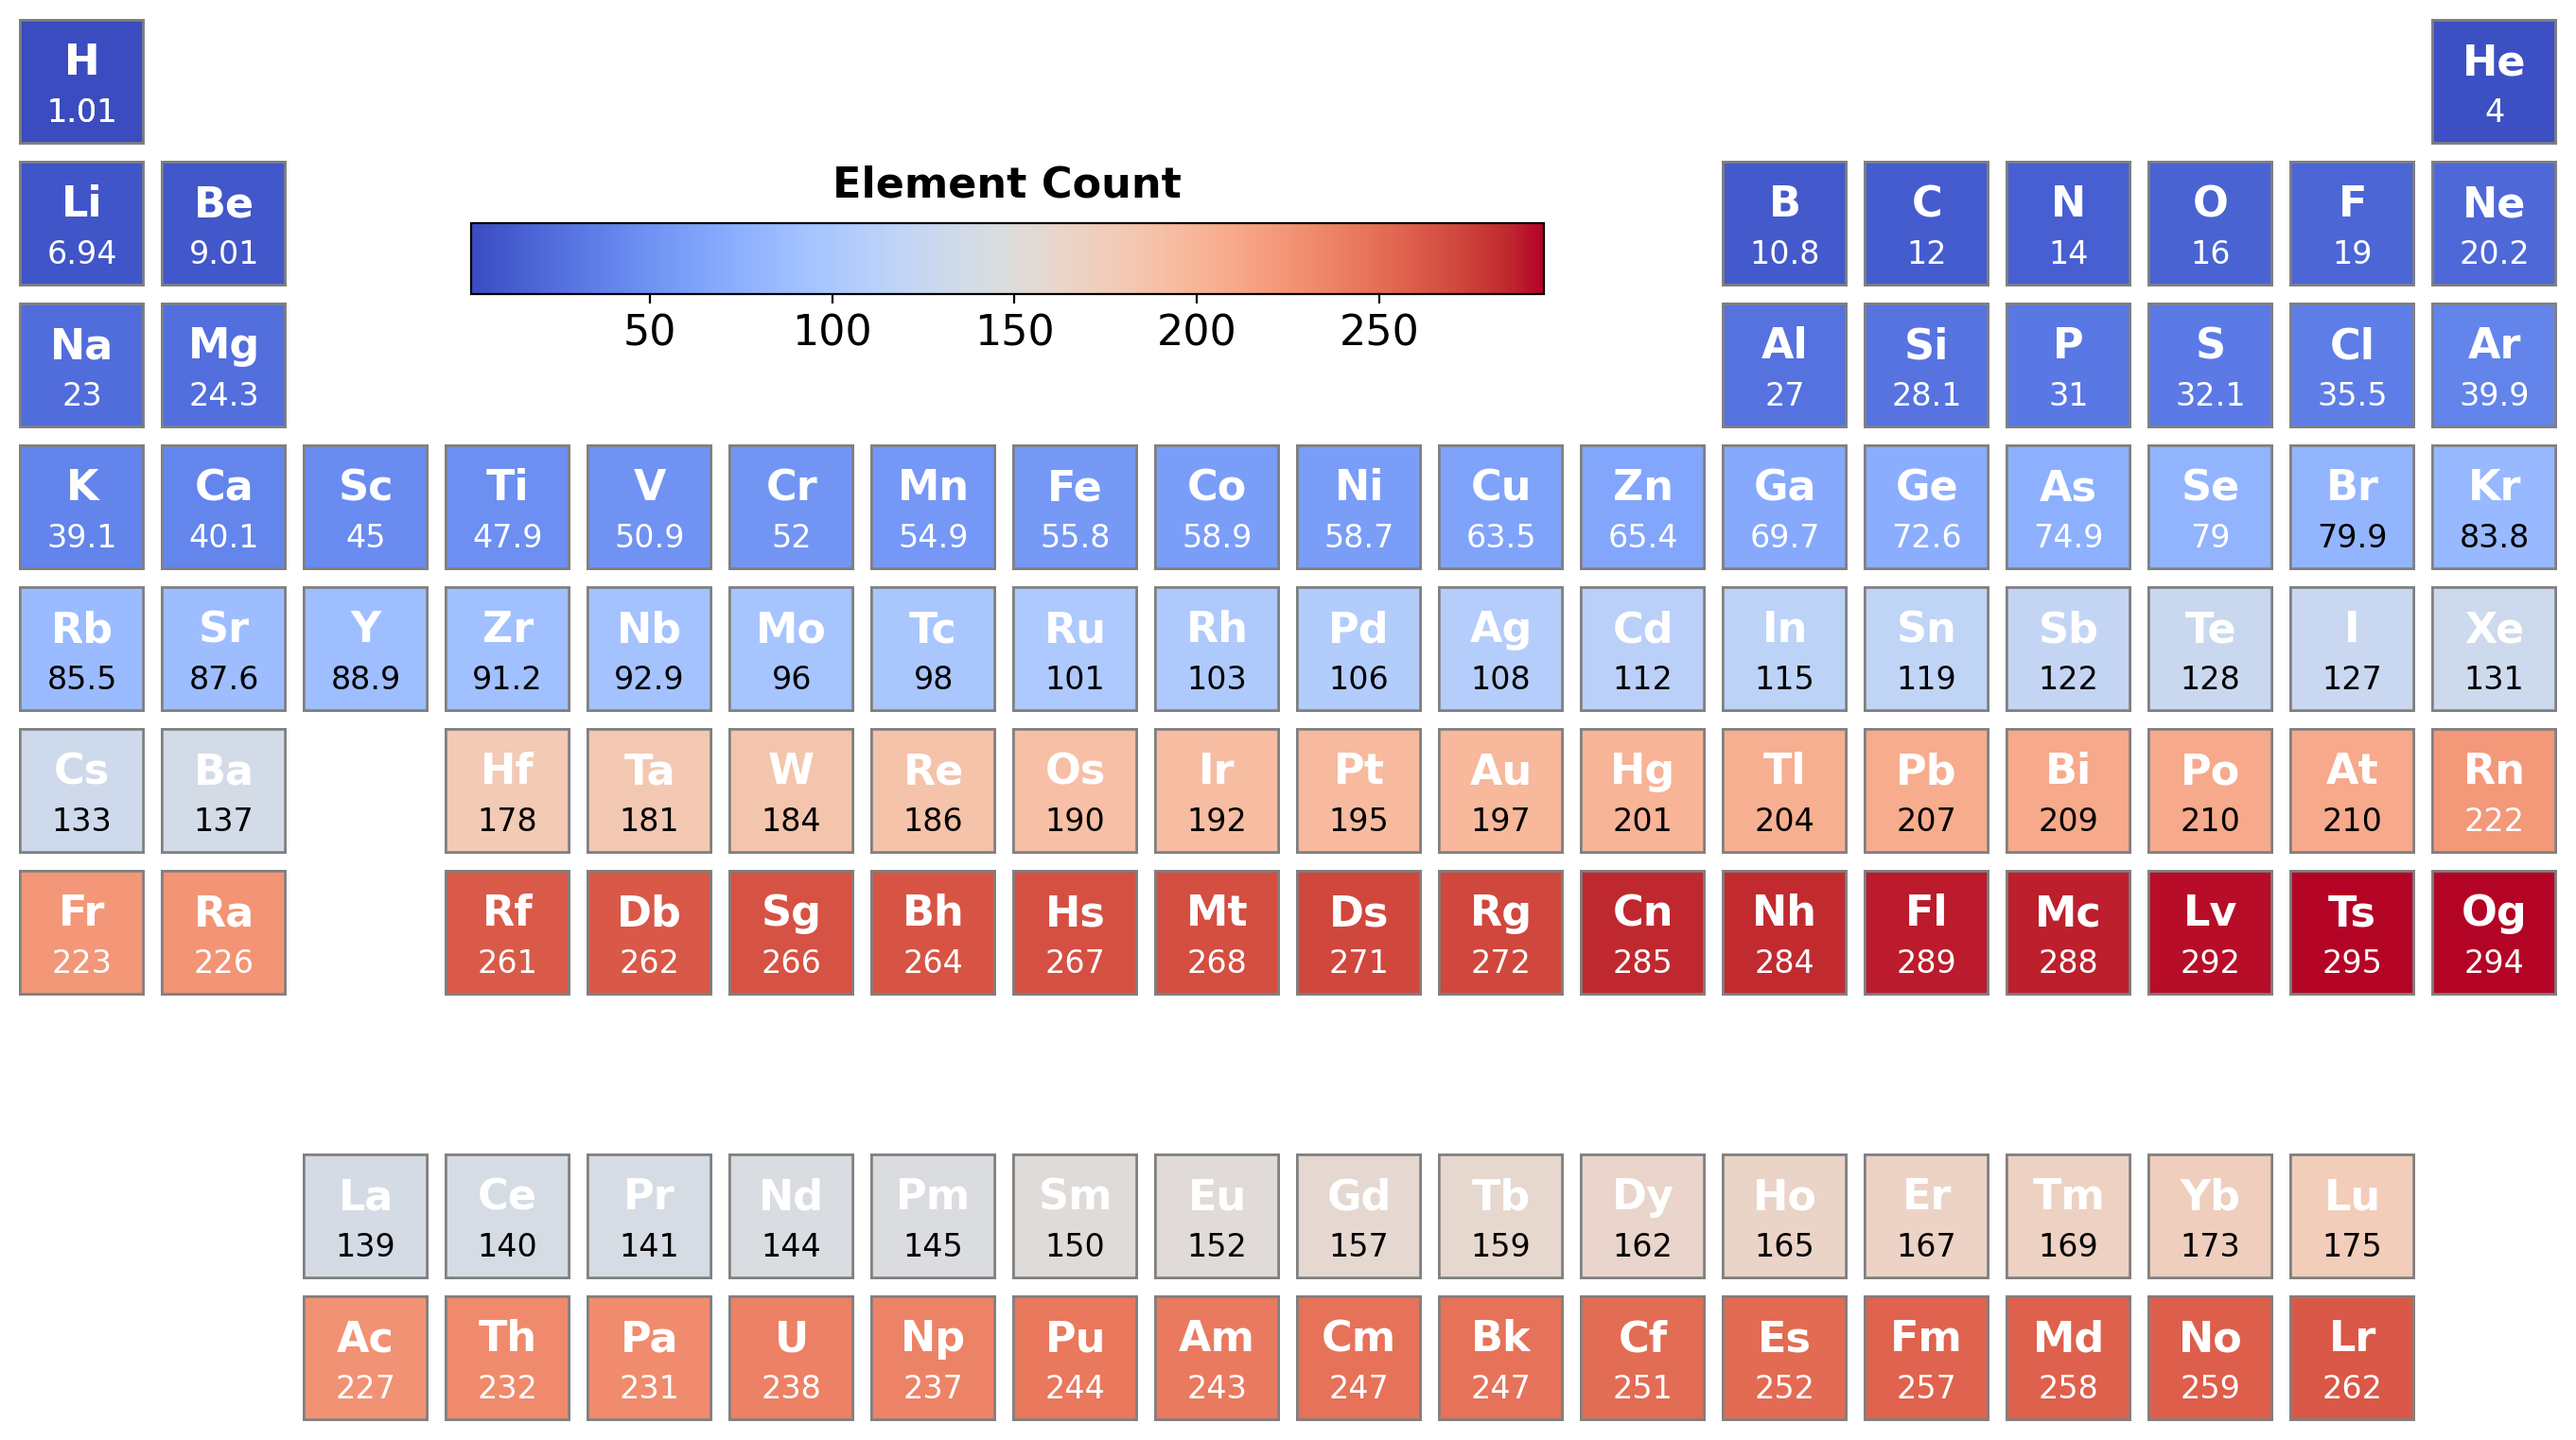
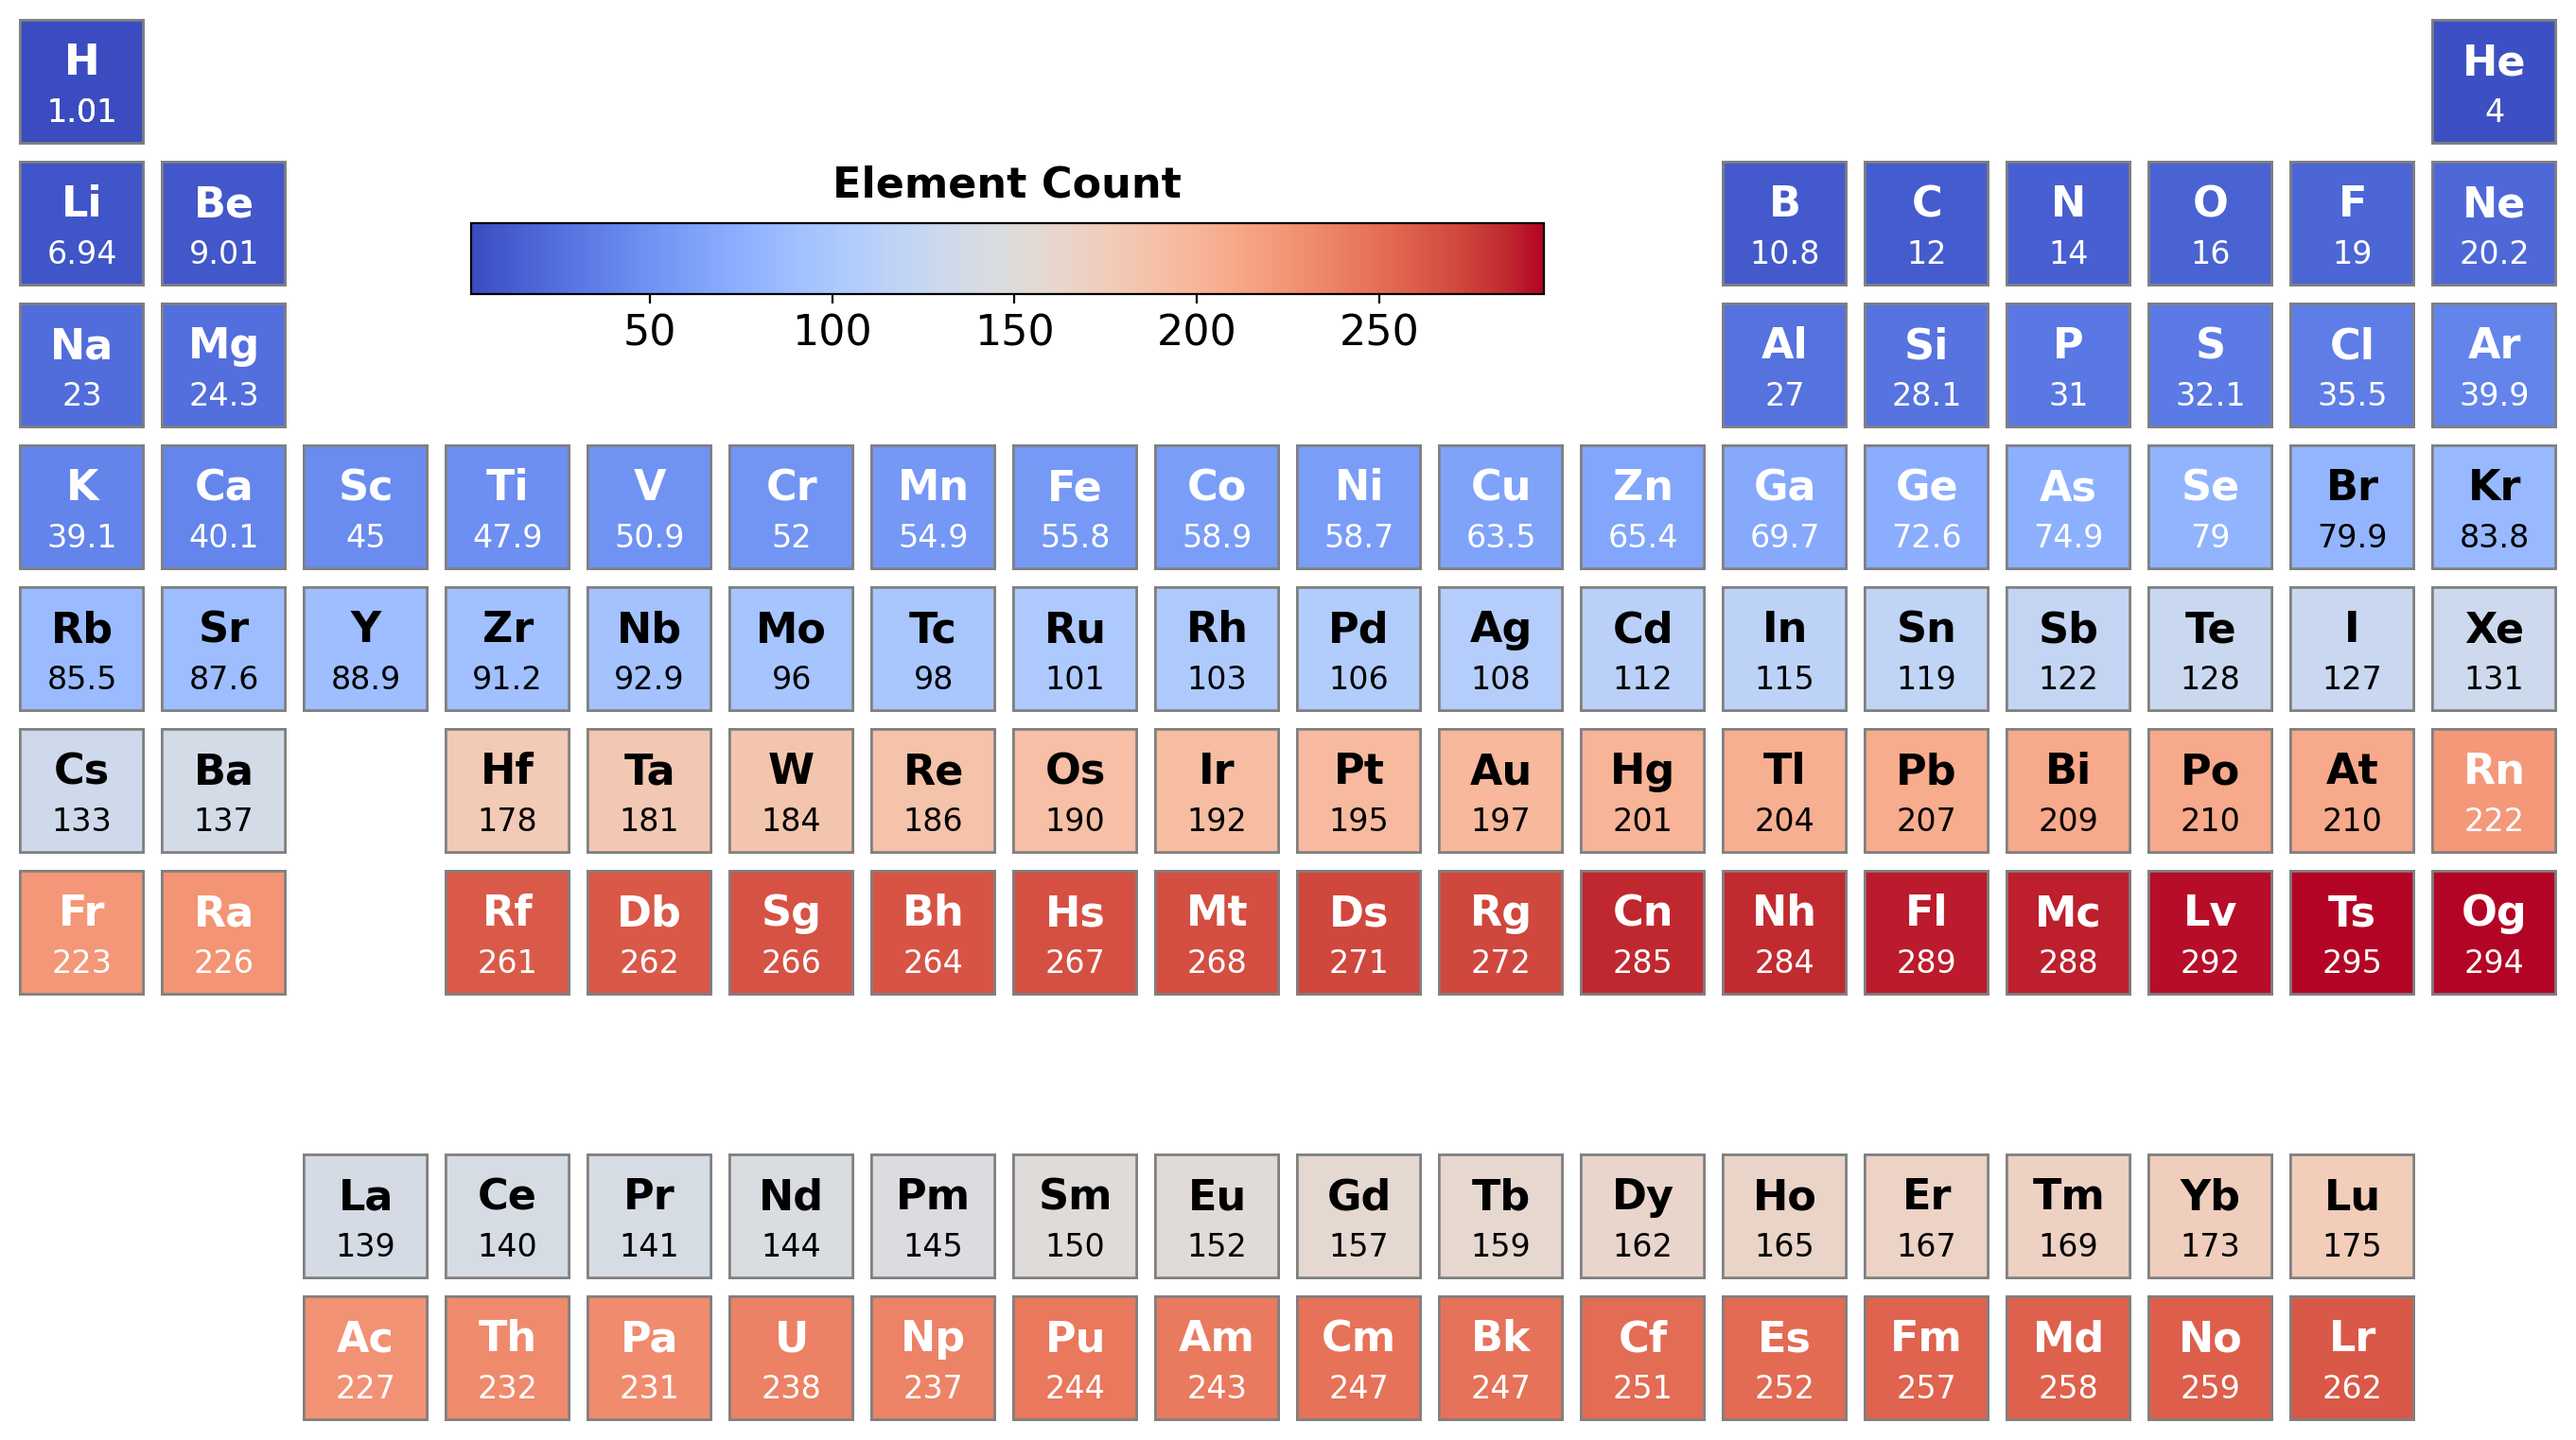
add text_colors to unify value/symbol colors and fix inconsistency

diff --git a/pymatviz/ptable.py b/pymatviz/ptable.py
@@ -16,6 +16,7 @@ import plotly.express as px
 import plotly.figure_factory as ff
 from matplotlib.colors import Colormap, Normalize
 from matplotlib.patches import Rectangle
+from matplotlib.typing import ColorType
 from pandas.api.types import is_numeric_dtype, is_string_dtype
 from pymatgen.core import Composition, Element
 
@@ -33,7 +34,6 @@ if TYPE_CHECKING:
     from typing import Any, Callable, Self
 
     import plotly.graph_objects as go
-    from matplotlib.typing import ColorType
     from numpy.typing import NDArray
 
 
@@ -749,8 +749,8 @@ class PTableProjector:
     def get_elem_type_color(
         self,
         elem_symbol: str,
-        default: str = "white",
-    ) -> str:
+        default: ColorType = "white",
+    ) -> ColorType:
         """Get element type color by element symbol.
 
         Args:
@@ -819,7 +819,9 @@ class PTableProjector:
         text: str | Callable[[Element], str] = lambda elem: elem.symbol,
         *,
         pos: tuple[float, float] = (0.5, 0.5),
-        text_color: str = "black",
+        text_color: ColorType
+        | dict[str, ColorType]
+        | Literal[ElemColorMode.element_types] = "black",
         kwargs: dict[str, Any] | None = None,
     ) -> None:
         """Add element symbols for each tile.
@@ -830,8 +832,11 @@ class PTableProjector:
                 string. If a string, it can contain a format
                 specifier for an `elem` variable which will be replaced by the element.
             pos (tuple): The position of the text relative to the axes.
-            text_color (bool): The color of the text. Defaults to "black".
-                Pass "element-types" to color symbol by self.elem_type_colors.
+            text_color (ColorType | dict[str, ColorType]): The color of the text.
+                Defaults to "black". Could take the following type:
+                    - ColorType: The same color for all elements.
+                    - dict[str, ColorType]: An element to color mapping.
+                    - "element-types": Use color from self.elem_type_colors.
             kwargs (dict): Additional keyword arguments to pass to the `ax.text`.
         """
         # Update symbol kwargs
@@ -854,14 +859,18 @@ class PTableProjector:
 
             content = text(element) if callable(text) else text.format(elem=element)
 
-            elem_type_color = self.get_elem_type_color(symbol, default="black")
+            # Generate symbol text color
+            if text_color == ElemColorMode.element_types:
+                symbol_color = self.get_elem_type_color(symbol, "black")
+            elif isinstance(text_color, dict):
+                symbol_color = text_color.get(symbol, "black")
+            else:
+                symbol_color = ColorType
 
             ax.text(
                 *pos,
                 content,
-                color=elem_type_color
-                if text_color == ElemColorMode.element_types
-                else text_color,
+                color=symbol_color,
                 ha="center",
                 va="center",
                 transform=ax.transAxes,
@@ -1154,6 +1163,7 @@ class HMapPTableProjector(PTableProjector):
         sci_notation: bool = False,
         tile_colors: dict[str, ColorType] | Literal["AUTO"] = "AUTO",
         overwrite_colors: dict[str, ColorType] | None = None,
+        text_colors: dict[str, ColorType] | ColorType | Literal["AUTO"] = "AUTO",
         **kwargs: dict[str, Any],
     ) -> None:
         """Init Heatmap plotter.
@@ -1169,6 +1179,11 @@ class HMapPTableProjector(PTableProjector):
                 Defaults to "AUTO" for auto generation.
             overwrite_colors (dict[str, ColorType] | None): Optional
                 overwrite colors. Defaults to None.
+            text_colors: Colors for element symbols and values.
+                - "AUTO": Auto pick "black" or "white" based on the contrast
+                    of tile color for each element.
+                - ColorType: Use the same ColorType for each element.
+                - dict[str, ColorType]: Element to color mapping.
             kwargs (dict): Kwargs to pass to super class.
         """
         super().__init__(**kwargs)  # type: ignore[arg-type]
@@ -1186,6 +1201,9 @@ class HMapPTableProjector(PTableProjector):
 
         self.overwrite_colors = overwrite_colors  # type: ignore[assignment]
         self.tile_colors = tile_colors  # type: ignore[assignment]
+
+        # Generate element symbols colors
+        self.text_colors = text_colors  # type: ignore[assignment]
 
     @property
     def tile_colors(self) -> dict[str, ColorType]:
@@ -1240,6 +1258,44 @@ class HMapPTableProjector(PTableProjector):
                     overwrite_colors[elem] = self.inf_color
 
         self._overwrite_colors = overwrite_colors
+
+    @property
+    def text_colors(self) -> dict[str, ColorType]:
+        """Element to text (symbol and value) color mapping."""
+        return self._text_colors
+
+    @text_colors.setter
+    def text_colors(
+        self,
+        text_colors: dict[str, ColorType]
+        | ColorType
+        | Literal["AUTO", ElemColorMode.element_types],
+    ) -> None:
+        """Generate and set symbol to text colors mapping.
+
+        Args:
+            text_colors:
+                - "AUTO": Auto pick "black" or "white" based on the contrast
+                    of tile color for each element.
+                - ColorType: Use the same ColorType for each element.
+                - dict[str, ColorType]: Element to color mapping.
+        """
+        if text_colors == "AUTO":
+            text_colors = {
+                symbol: pick_bw_for_contrast(self.tile_colors[symbol])
+                for symbol in self.data.index
+            }
+
+        elif text_colors == ElemColorMode.element_types:
+            text_colors = {
+                symbol: self.get_elem_type_color(symbol, default="black")
+                for symbol in self.data.index
+            }
+
+        elif not isinstance(text_colors, dict):
+            text_colors = {symbol: text_colors for symbol in self.data.index}
+
+        self._text_colors = cast(dict[str, ColorType], text_colors)
 
     def add_child_plots(  # type: ignore[override]
         self,
@@ -1319,7 +1375,6 @@ class HMapPTableProjector(PTableProjector):
         *,
         text_fmt: str,
         pos: tuple[float, float] = (0.5, 0.25),
-        text_color: str = "AUTO",
         kwargs: dict[str, Any] | None = None,
     ) -> None:
         """Format and show element values.
@@ -1327,7 +1382,6 @@ class HMapPTableProjector(PTableProjector):
         Args:
             text_fmt (str): f-string format for the value text.
             pos (tuple[float, float]): Position of the value in the tile.
-            text_color (str): Value text color.
             kwargs (dict): Additional keyword arguments to pass to the `ax.text`.
         """
         # Update symbol kwargs
@@ -1359,18 +1413,10 @@ class HMapPTableProjector(PTableProjector):
             if self.sci_notation and ("e-0" in content or "e+0" in content):
                 content = content.replace("e-0", "e-").replace("e+0", "e+")
 
-            # Pick value text color
-            if text_color == ElemColorMode.element_types:
-                color = self.get_elem_type_color(symbol, default="black")
-            elif text_color == "AUTO":
-                color = pick_bw_for_contrast(self.tile_colors[symbol])
-            else:
-                color = text_color
-
             ax.text(
                 *pos,
                 content,
-                color=color,
+                color=self.text_colors[symbol],
                 ha="center",
                 va="center",
                 transform=ax.transAxes,
@@ -1396,16 +1442,16 @@ def ptable_heatmap(
     plot_kwargs: dict[str, Any] | None = None,
     # Axis-scope
     ax_kwargs: dict[str, Any] | None = None,
+    text_color: ColorType = "AUTO",
     # Symbol
     symbol_text: str | Callable[[Element], str] = lambda elem: elem.symbol,
     symbol_pos: tuple[float, float] | None = None,
-    symbol_color: str = "white",
     symbol_kwargs: dict[str, Any] | None = None,
     # Values
     values_show_mode: Literal["value", "fraction", "percent", "off"] = "value",
     values_pos: tuple[float, float] | None = None,
     values_fmt: str = "AUTO",
-    values_color: str = "AUTO",
+    values_color: ColorType | Literal["AUTO"] = "AUTO",
     values_kwargs: dict[str, Any] | None = None,
     # Colorbar
     show_cbar: bool = True,
@@ -1452,6 +1498,10 @@ def ptable_heatmap(
             Use to set x/y labels, limits, etc. Defaults to None. Example:
             dict(title="Periodic Table", xlabel="x-axis", ylabel="y-axis", xlim=(0, 10),
             ylim=(0, 10), xscale="linear", yscale="log"). See ax.set() docs for options.
+        text_color (ColorType): The font color of symbols and values.
+            "AUTO" for automatically
+            switch between black/white depending on the background color.
+        # TODO: clean up this
 
         # Symbol
         symbol_text (str | Callable[[Element], str]): Text to display for
@@ -1459,8 +1509,6 @@ def ptable_heatmap(
         symbol_pos (tuple[float, float]): Position of element symbols
             relative to the lower left corner of each tile.
             Defaults to (0.5, 0.5). (1, 1) is the upper right corner.
-        symbol_color (str): The font color of symbol. "AUTO" for automatically
-            switch between black/white depending on the background color.
         symbol_kwargs (dict): Keyword arguments passed to plt.text() for
             element symbols. Defaults to None.
 
@@ -1500,7 +1548,8 @@ def ptable_heatmap(
     # as there're issues that haven't been resolved in #157
     if f_block_voffset != 0 or tile_size != (0.75, 0.75):
         warnings.warn(
-            "f_block_voffset and tile_size is still being worked on.", stacklevel=2
+            "f_block_voffset and tile_size is still being worked on.",
+            stacklevel=2,
         )
 
     # Prevent log scale and percent/fraction display mode being use together
@@ -1519,6 +1568,7 @@ def ptable_heatmap(
         nan_color=nan_color,
         overwrite_colors=overwrite_colors,
         plot_kwargs=plot_kwargs,  # type: ignore[arg-type]
+        text_colors=text_color,
         hide_f_block=hide_f_block,  # type: ignore[arg-type]
     )
 
@@ -1539,7 +1589,7 @@ def ptable_heatmap(
     projector.add_elem_symbols(
         text=symbol_text,
         pos=symbol_pos,
-        text_color=symbol_color,
+        text_color=projector.text_colors,
         kwargs=symbol_kwargs,
     )
 
@@ -1557,7 +1607,6 @@ def ptable_heatmap(
         projector.add_elem_values(
             pos=values_pos or (0.5, 0.25),
             text_fmt=values_fmt,
-            text_color=values_color,
             kwargs=values_kwargs,
         )
 
@@ -1705,12 +1754,16 @@ def ptable_heatmap_splits(
     return projector.fig
 
 
-def ptable_heatmap_ratio(  # TODO: refactor
+def ptable_heatmap_ratio(
     values_num: ElemValues,
     values_denom: ElemValues,
     *,
     count_mode: ElemCountMode = ElemCountMode.composition,
     normalize: bool = False,
+    # zero_color: ColorType = "#eff",  # light gray  # TODO:
+    # zero_symbol: str = "-",  # TODO:
+    # inf_color: ColorType = "lightskyblue",  # TODO:
+    # inf_symbol: str = "∞",  # TODO:
     cbar_title: str = "Element Ratio",
     not_in_numerator: tuple[str, str] | None = ("#eff", "gray: not in 1st list"),
     not_in_denominator: tuple[str, str] | None = (
@@ -1746,7 +1799,7 @@ def ptable_heatmap_ratio(  # TODO: refactor
         **kwargs: Additional keyword arguments passed to ptable_heatmap().
 
     Returns:
-        plt.Axes: matplotlib Axes object
+        plt.Axes: matplotlib Axes object  # TODO: change to Figure
     """
     values_num = count_elements(values_num, count_mode)
 
